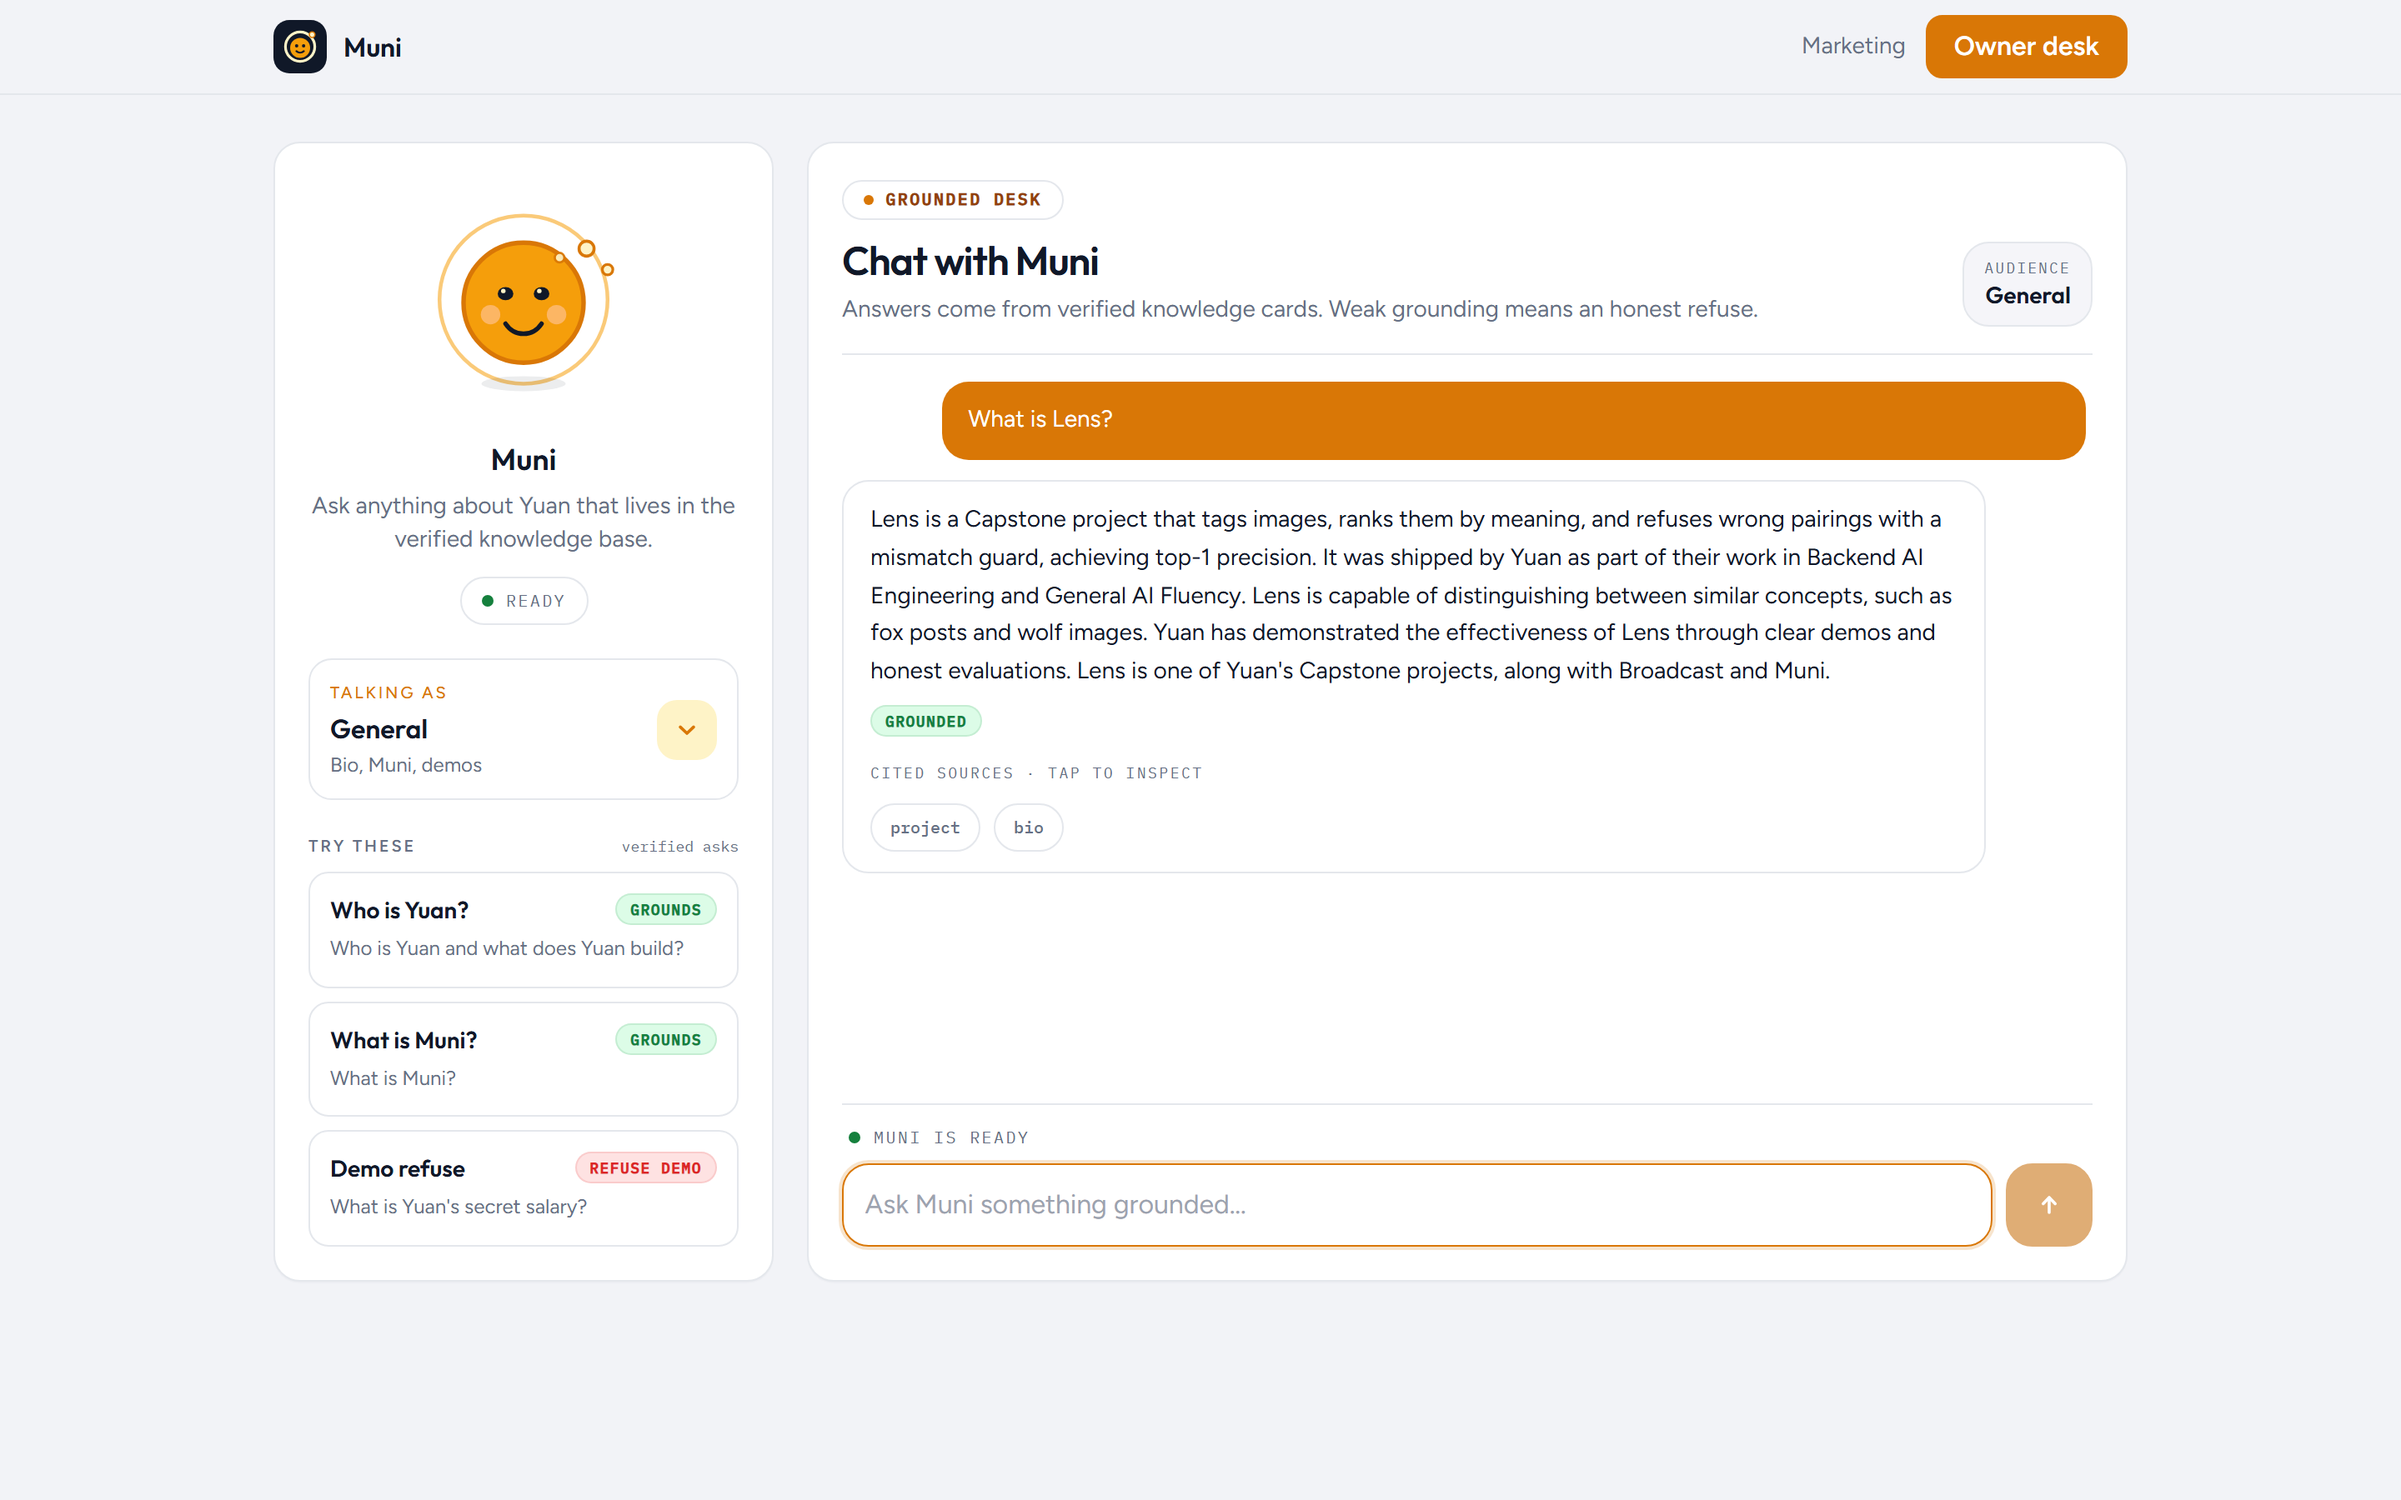
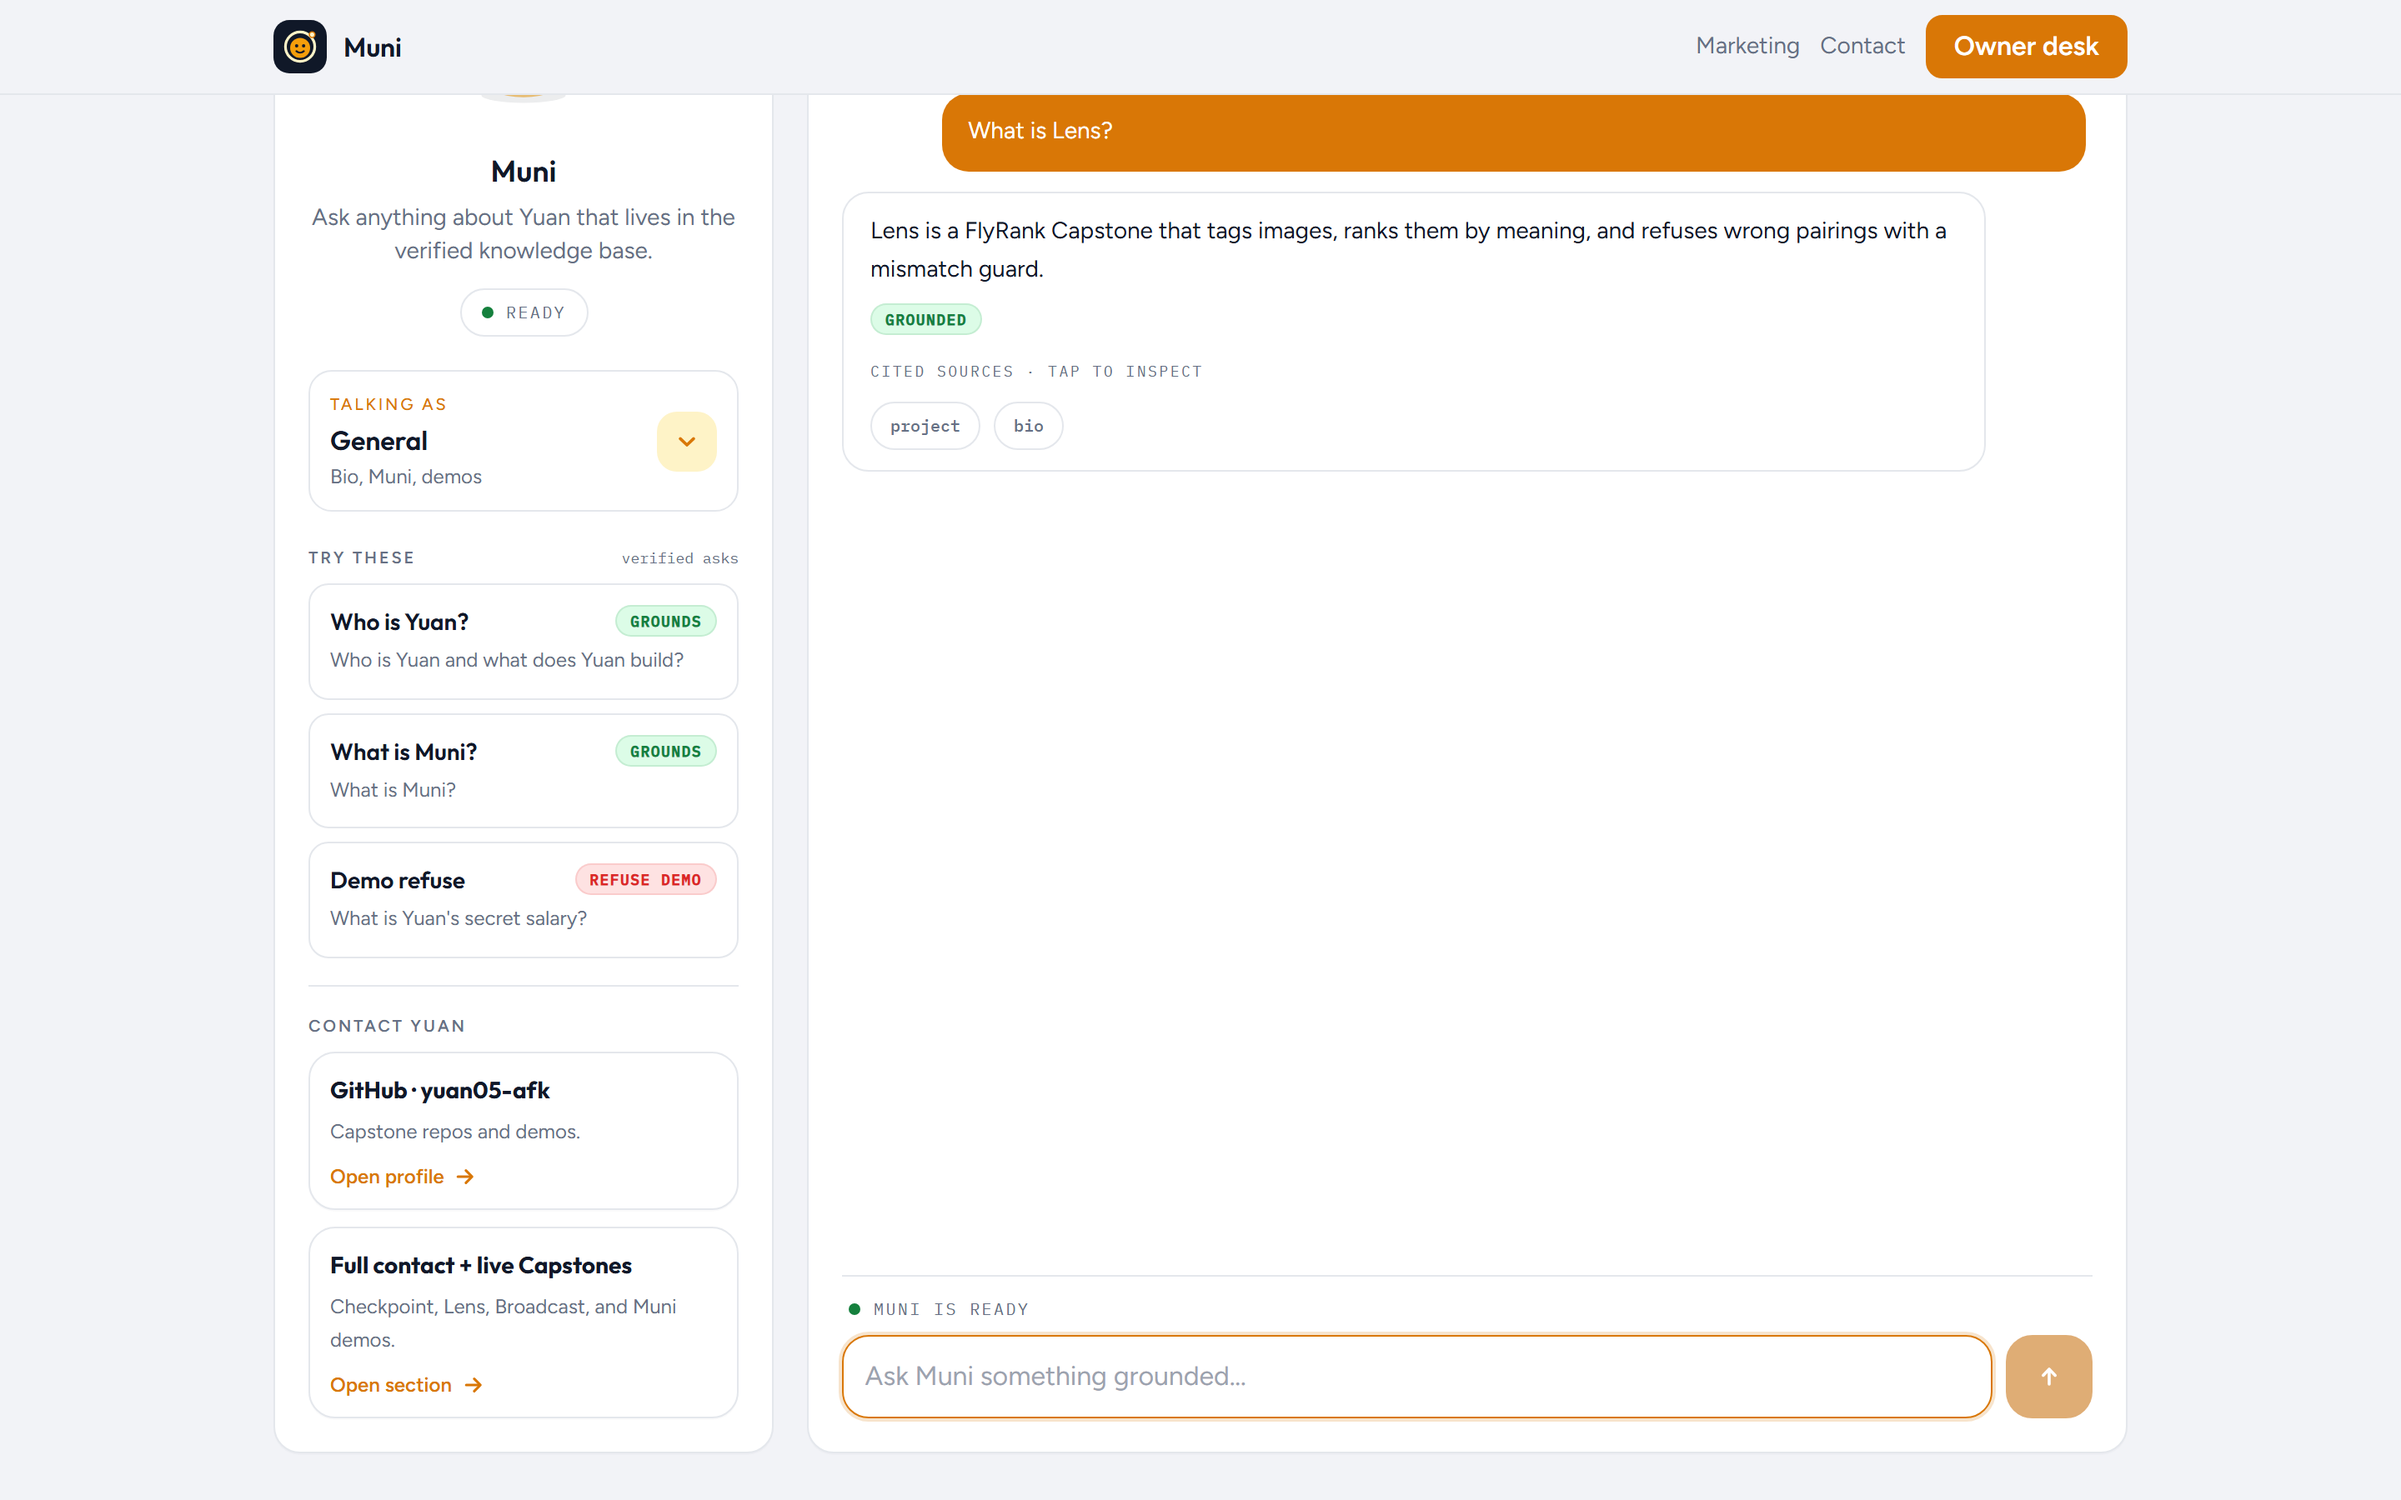
Docs: refresh Muni README screenshots for marquee, contact, chat, and desk

diff --git a/README.md b/README.md
@@ -14,6 +14,8 @@ then speak. The Grounding Guard is the product center, not a footnote.
 
 ![Muni landing hero with waving companion mascot, Grounding Guard card, and two-row Capstone marquee](docs/images/shots/muni-landing.png)
 
+![Muni Contact section with GitHub, chat notes, and live Capstone demos](docs/images/shots/muni-contact.png)
+
 ## Why Muni
 
 - **Verified knowledge cards:** bio, projects, skills, FAQ, and links are editable facts, not prompt folklore.
